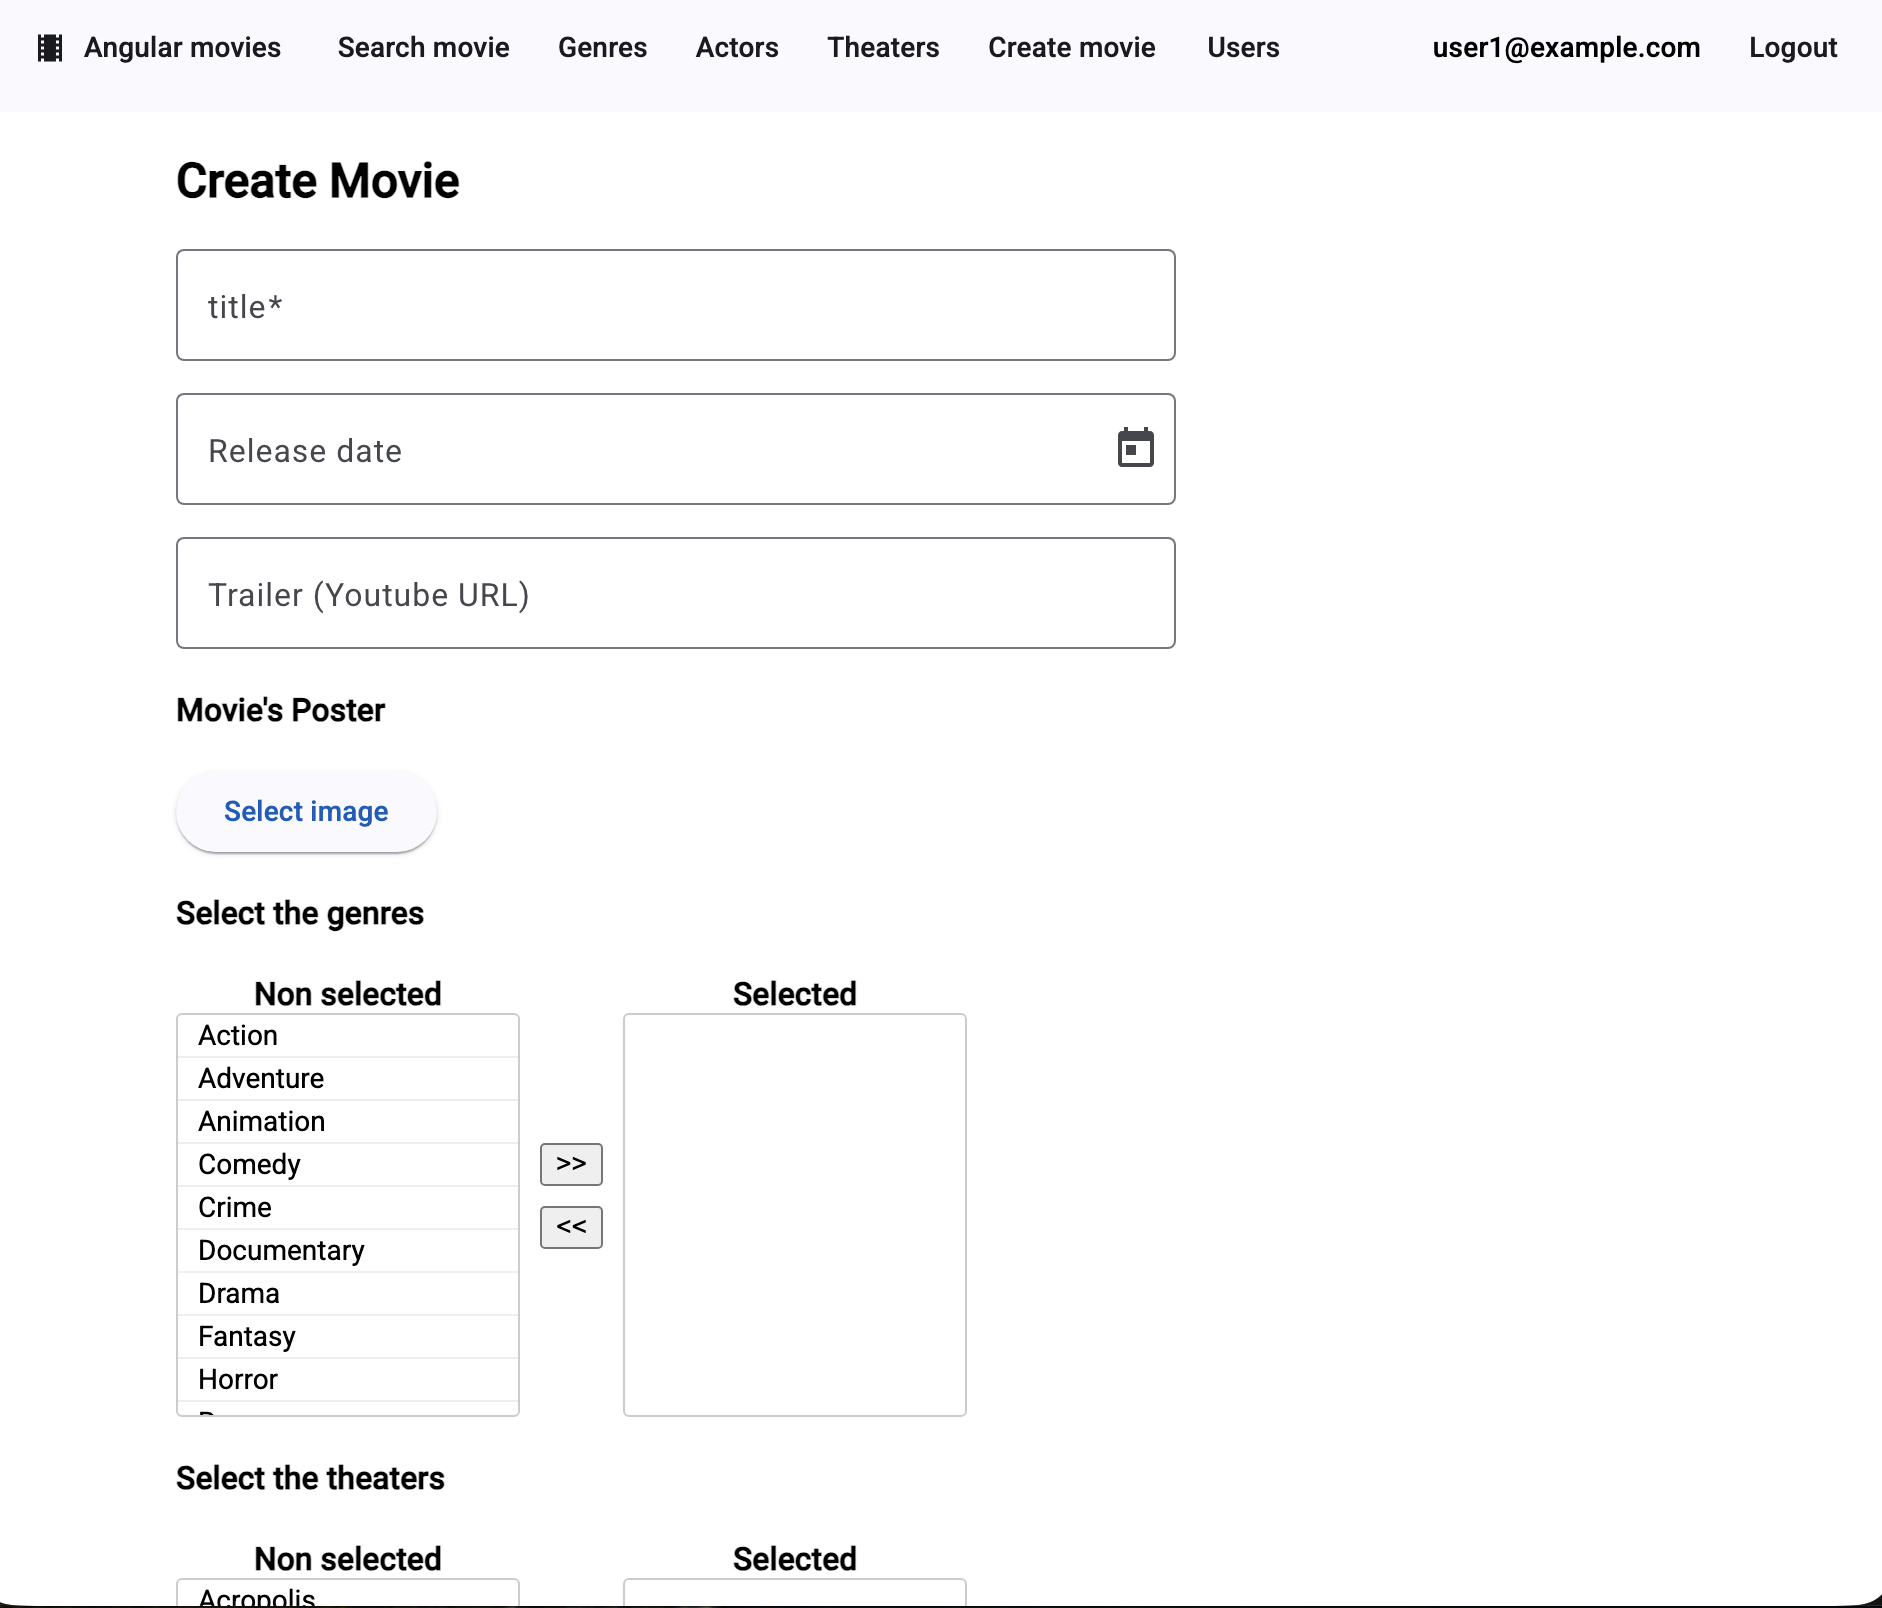
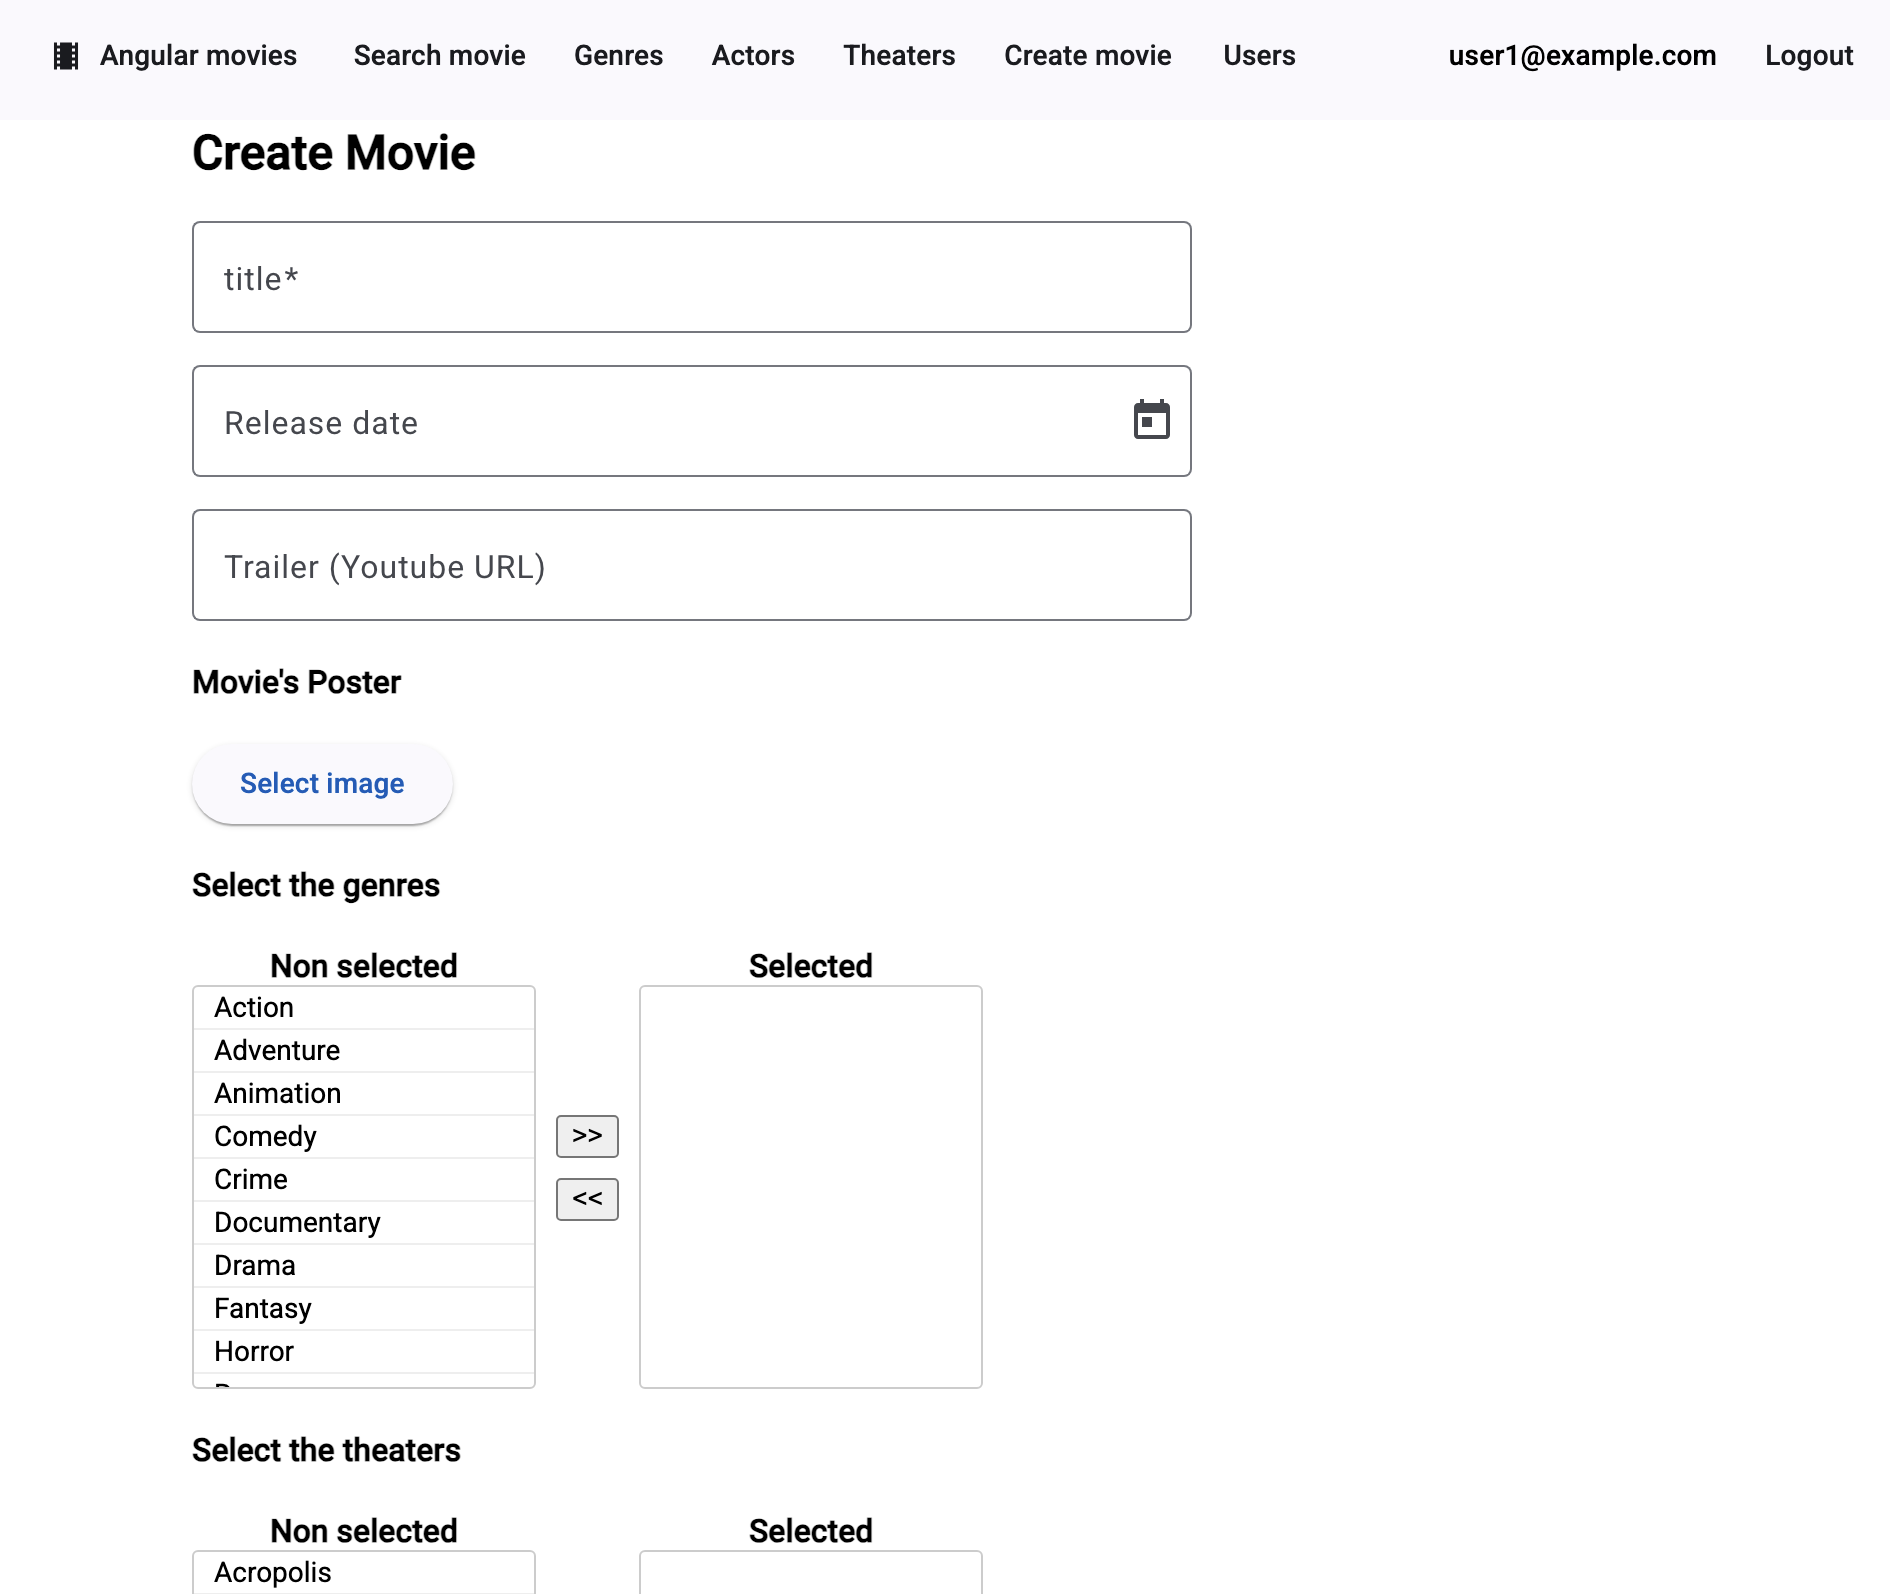
modify README

diff --git a/MoviesAPI/MoviesAPI/Controllers/CustomBaseController.cs b/MoviesAPI/MoviesAPI/Controllers/CustomBaseController.cs
@@ -1,9 +1,6 @@
-using CoreBusiness.DTOs;
 using CoreBusiness.Interfaces;
 using Microsoft.AspNetCore.Mvc;
 using Microsoft.AspNetCore.OutputCaching;
-using MoviesAPI.Utilities;
-using UseCases.DataStoreInterfaces;
 
 namespace MoviesAPI.Controllers;
 

diff --git a/MoviesAPI/MoviesAPI/Controllers/ActorsController.cs b/MoviesAPI/MoviesAPI/Controllers/ActorsController.cs
@@ -1,4 +1,3 @@
-using CoreBusiness;
 using CoreBusiness.DTOs;
 using Microsoft.AspNetCore.Authentication.JwtBearer;
 using Microsoft.AspNetCore.Authorization;

diff --git a/MoviesAPI/MoviesAPI/Controllers/GenresController.cs b/MoviesAPI/MoviesAPI/Controllers/GenresController.cs
@@ -1,4 +1,3 @@
-using CoreBusiness;
 using CoreBusiness.DTOs;
 using Microsoft.AspNetCore.Authentication.JwtBearer;
 using Microsoft.AspNetCore.Authorization;

diff --git a/MoviesAPI/MoviesAPI/Controllers/MoviesController.cs b/MoviesAPI/MoviesAPI/Controllers/MoviesController.cs
@@ -1,4 +1,3 @@
-using CoreBusiness;
 using CoreBusiness.DTOs;
 using Microsoft.AspNetCore.Authentication.JwtBearer;
 using Microsoft.AspNetCore.Authorization;

diff --git a/MoviesAPI/MoviesAPI/Controllers/TheatersController.cs b/MoviesAPI/MoviesAPI/Controllers/TheatersController.cs
@@ -1,4 +1,3 @@
-using CoreBusiness;
 using CoreBusiness.DTOs;
 using Microsoft.AspNetCore.Authentication.JwtBearer;
 using Microsoft.AspNetCore.Authorization;

diff --git a/README.md b/README.md
@@ -1,6 +1,6 @@
 # Movies Full-Stack Web Application
 ## Description
-- Movies Full-Stack Web Application is a portfolio project designed to demonstrate end-to-end full-stack development with **an Angular frontend, Firebase hosting, an ASP.NET Core backend, SQL Server data persistence, JWT-based authentication, role-based authorization, Azure cloud deployment with CI/CD pipelines**.
+- Movies Full-Stack Web Application is a portfolio project designed to demonstrate end-to-end full-stack development with **an Angular frontend, Firebase hosting, an ASP.NET Core backend, SQL Server data persistence, JWT-based authentication, role-based authorization, Azure cloud deployment with Azure DevOps pipelines**.
 
 - The application allows all users to browse movie-related information, registered users to rate movies and administrators to manage data for genres, actors, theaters, and movies.
 
@@ -52,7 +52,7 @@
 
     ![](./images/app_functions/landing_page_admin.png)
 
-- Examine the movie details
+- View movie details
 
     ![](./images/app_functions/movie_details.png)
 
@@ -70,7 +70,7 @@
 
     ![](./images/app_functions/movie_rating_2.png)
 
-- Manage genres, actors, theaters, and movies when logged in as admin
+- Manage genres, actors, theaters, and movies when logged in as an admin
 
     ![](./images/app_functions/genres.png)
 